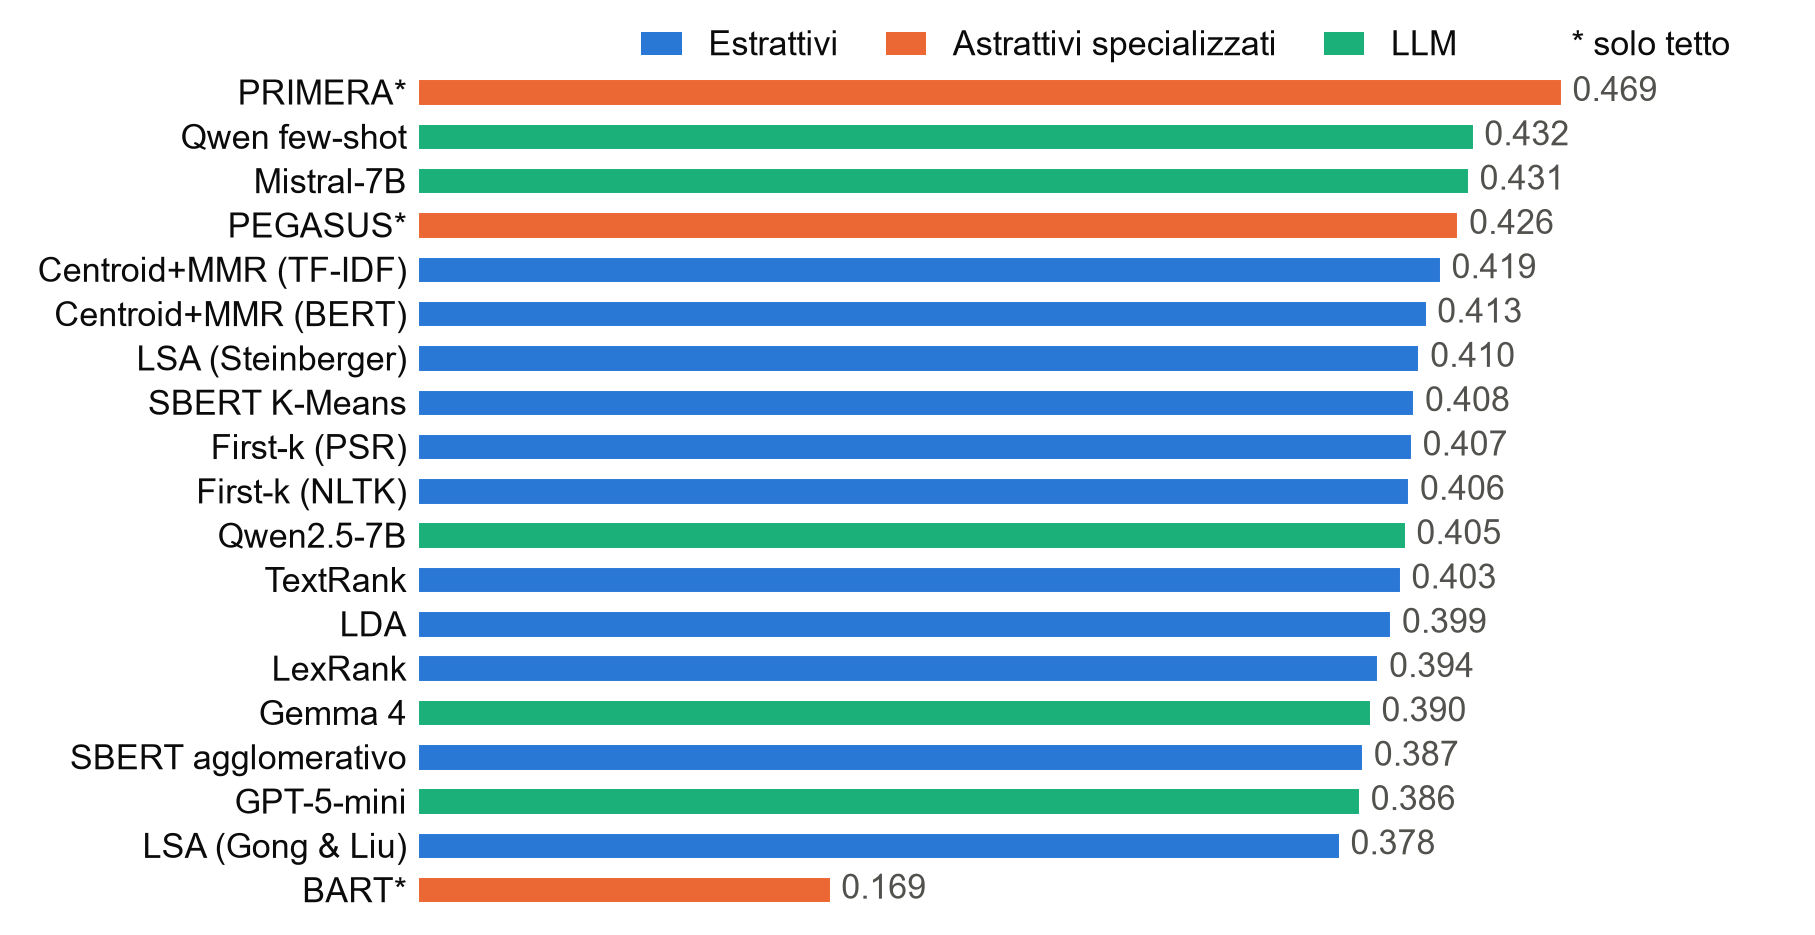
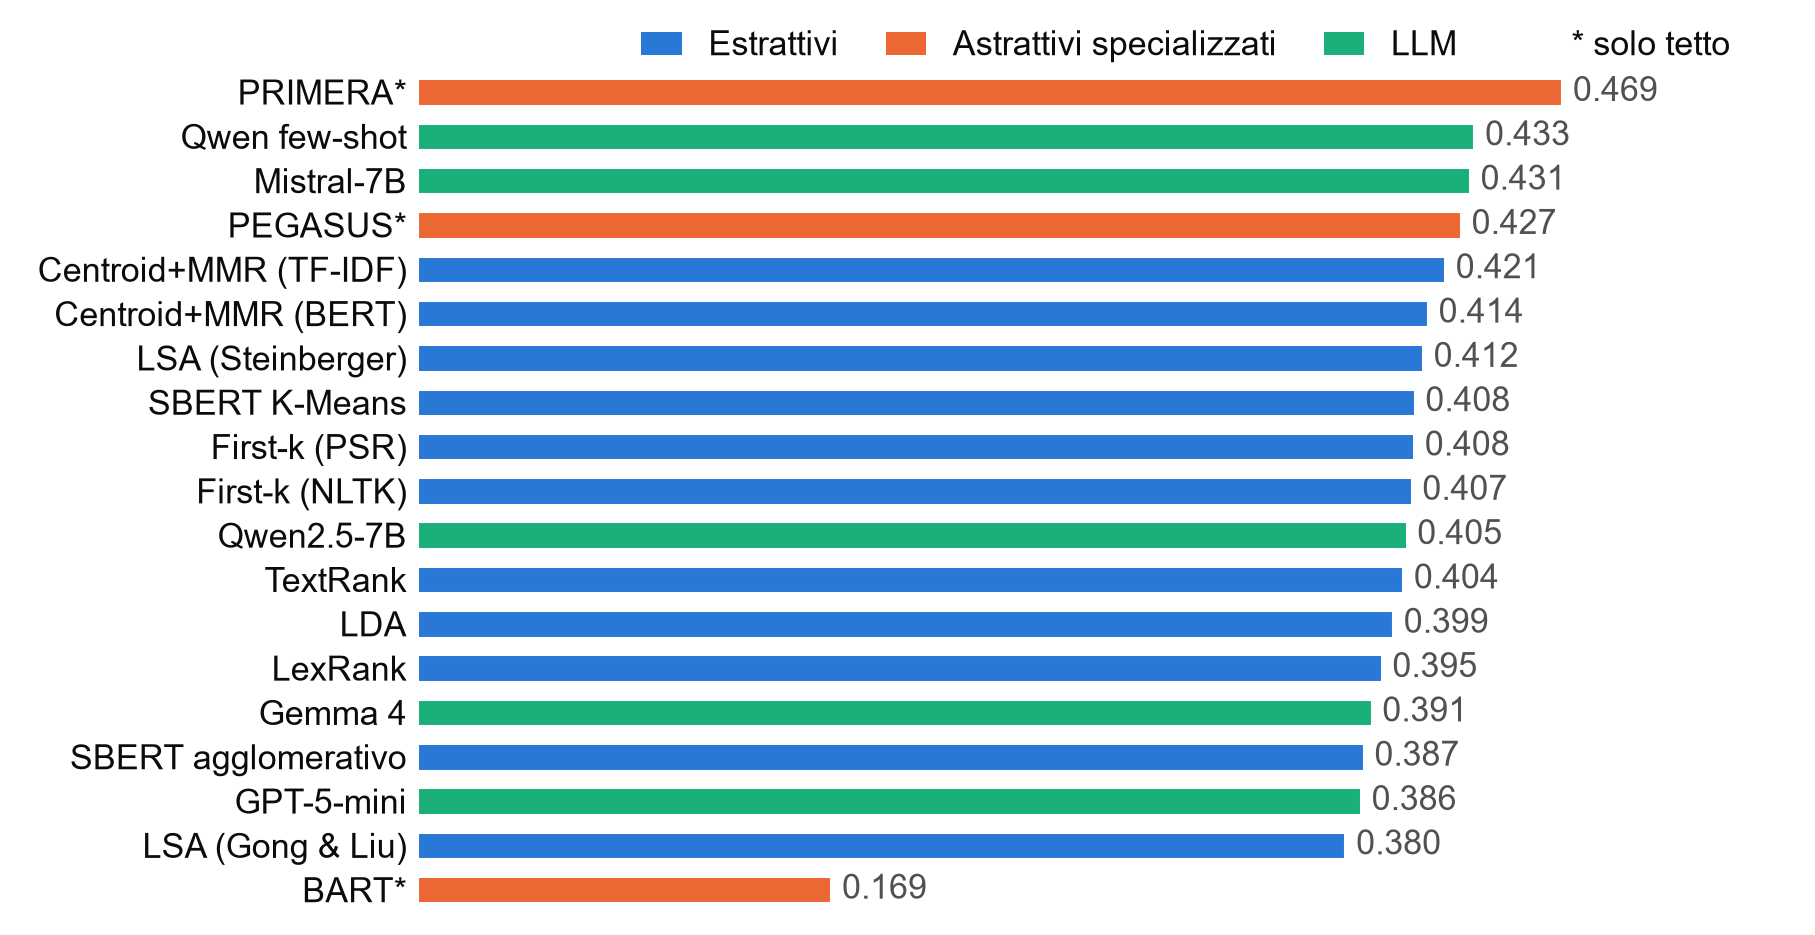
Slide METEOR con la stessa regola dei notebook 05

Changed region(s): [[0.7405, 0.1241, 0.8639, 0.7754], [0.7405, 0.8374, 0.8022, 0.9305], [0.4628, 0.9305, 0.5245, 0.9615]]

diff --git a/scripts/figure_presentazione.py b/scripts/figure_presentazione.py
@@ -10,7 +10,7 @@ solo messaggio, a caratteri grandi, calcolato dagli aggregati committati in resu
   slide_prima_dopo.png                   ROUGE-1 F1 e G-Eval, test contro test_budgetref
   slide_{rouge2_f1,rougeL_f1,bleu,meteor}_budgetref.png
                                          riserve: le altre metriche, a lunghezza contenuta;
-                                         METEOR senza le righe degeneri 50540 e 51178
+                                         METEOR senza le righe fuori da [0,1] (come 05c)
 
 I risultati principali della presentazione sono quelli a lunghezza contenuta (test_budgetref);
 le figure su test vanno nelle slide di riserva («a lunghezza libera»).
@@ -20,8 +20,8 @@ Colori: tre famiglie dai primi tre slot della palette categoriale di riferimento
 validati anche a coppie arbitrarie (adatti a barre e punti mescolati).
 """
 import json
+import sys
 from pathlib import Path
-import pandas as pd
 import matplotlib
 matplotlib.use("Agg")
 import matplotlib.pyplot as plt
@@ -173,18 +173,15 @@ grafico_barre("test_budgetref", "slide_rouge2_f1_budgetref.png", "rouge2_f1", 0.
 grafico_barre("test_budgetref", "slide_rougeL_f1_budgetref.png", "rougeL_f1", 0.3)
 grafico_barre("test_budgetref", "slide_bleu_budgetref.png", "bleu", 0.18)
 
-# METEOR di pyAutoSummarizer non è limitato (penalità elevata due volte al cubo, chunk non
-# limitati ai match): su due righe esplode e trascina la media (lda -13.48, lexrank -0.157,
-# pegasus 0.077). Le si toglie a TUTTI i 19 metodi, così le medie restano sugli stessi
-# cluster; i file committati restano intatti. Tagliare a [0,1] dà la stessa classifica.
-RIGHE_METEOR_DEGENERI = (50540, 51178)  # 50540: lista di birrerie (lda, lexrank); 51178: loop PEGASUS
-
-def meteor_senza_degeneri(m, scope="test_budgetref"):
-    d = pd.read_csv(M / f"{m}_{scope}_per_example.csv", usecols=["row_id", "meteor"])
-    return d.loc[~d.row_id.isin(RIGHE_METEOR_DEGENERI), "meteor"].mean()
-
+# METEOR di pyAutoSummarizer non è limitato e su poche righe esplode (lda -77.557 sulla riga
+# 50540), trascinando la media. Si usa lo stesso caricamento del notebook 05c
+# (su.carica_scope: righe comuni ai 19 metodi, METEOR tolto a tutti sulle righe dove almeno
+# un metodo è fuori da [0,1]), così slide e notebook mostrano gli stessi numeri.
+sys.path.insert(0, str(REPO / "notebooks"))
+import summ_utils as su
+dati_budget = su.carica_scope(M, "test_budgetref", list(NOMI))
 grafico_barre("test_budgetref", "slide_meteor_budgetref.png", xmax=0.55,
-              valori={m: meteor_senza_degeneri(m) for m in NOMI})
+              valori={m: d["df"]["meteor"].mean() for m, d in dati_budget.items()})
 grafico_bertscore("test_budgetref", "slide_bertscore_f1_budgetref.png")
 grafico_geval("test", "slide_geval_dimensioni.png")
 grafico_geval("test_budgetref", "slide_geval_dimensioni_budgetref.png")
